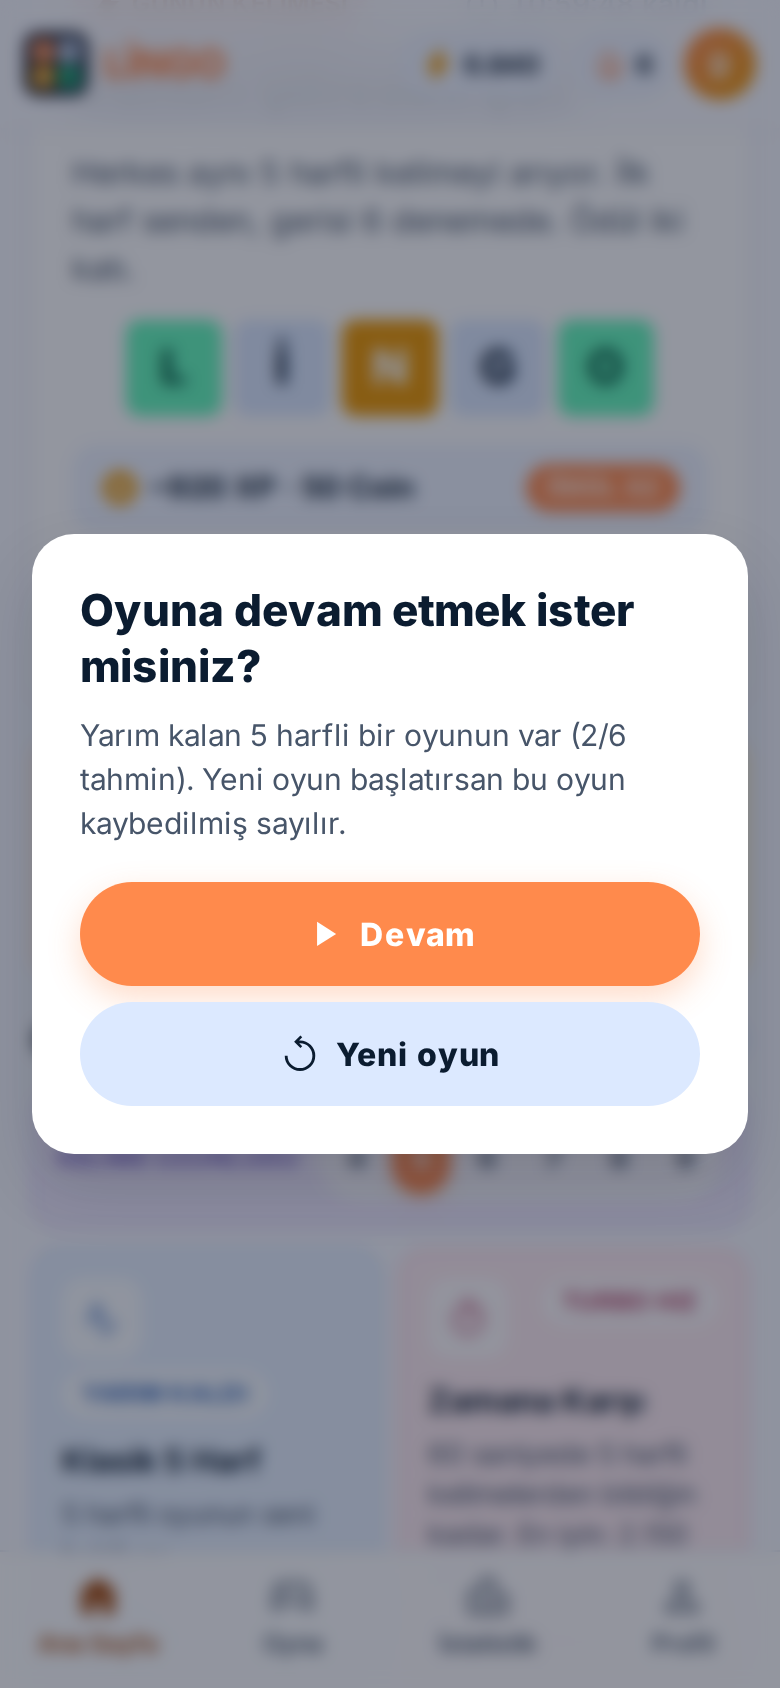
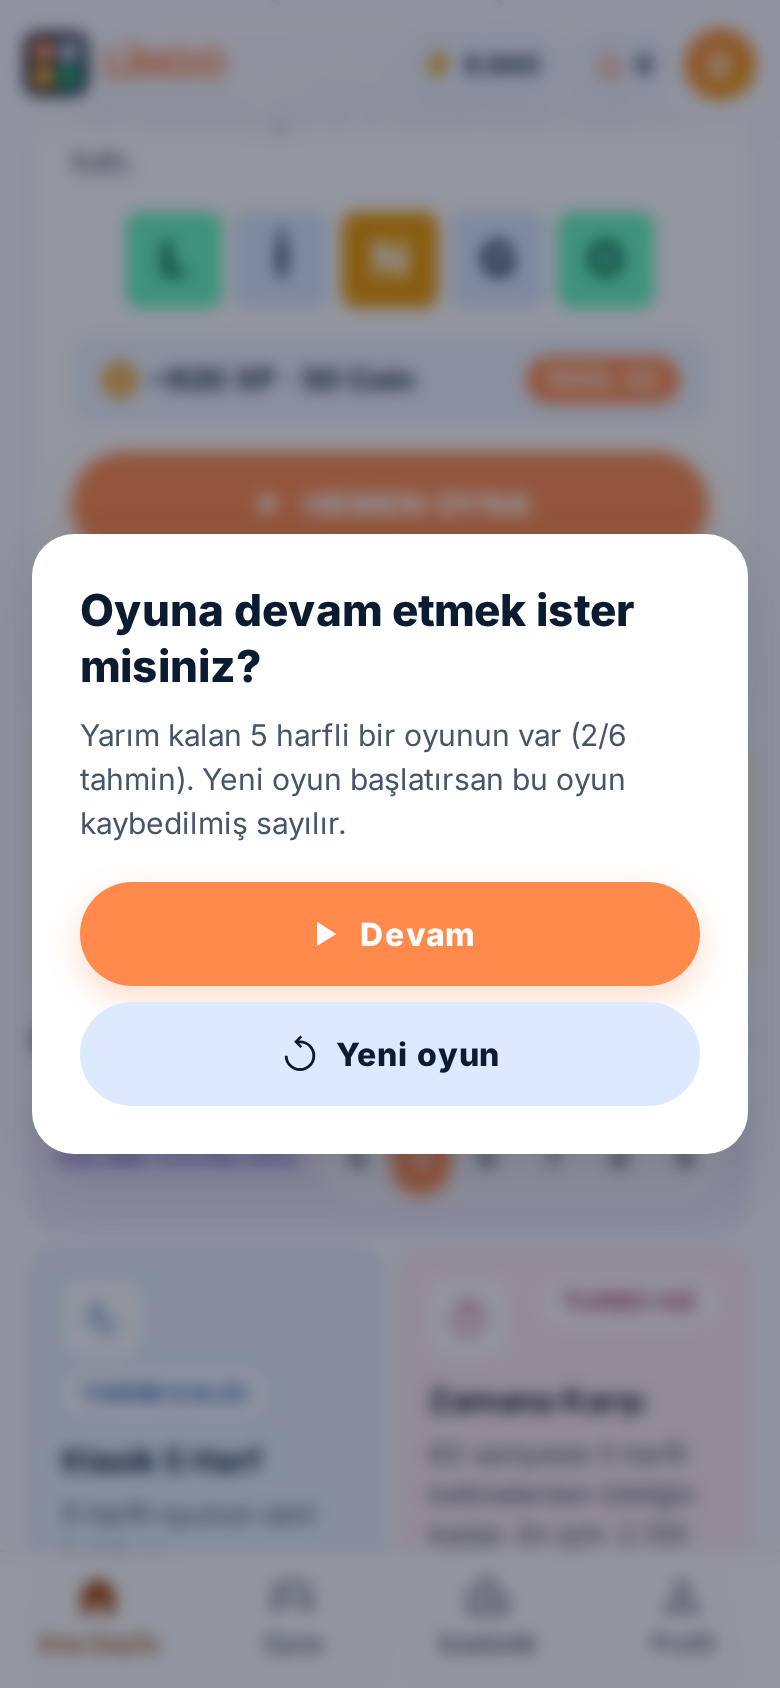
Düello PvP ve Özel Oda kartlarını kaldır
Sunucu olmadan yapılamayan iki 'Yakında' kartı ana sayfadan çıkarıldı;
kullanılmayan simgeler ve stiller silindi, README ve ekran görüntüleri
güncellendi.

Claude-Session: https://claude.ai/code/session_01DpVrEgeQ52kb5oPXwzJp8M

Changed region(s): [[0.0615, 0.0924, 0.9231, 0.3389]]

diff --git a/js/icons.js b/js/icons.js
@@ -14,7 +14,6 @@ export const ICONS = {
   home: ["M222.15-182.15h143.78v-251.92h228.14v251.92h143.78v-386.89L480-762.37 222.15-568.96v386.81Zm-68.13 68.13v-489.09L480-847.65l326.22 244.54v489.09H528.57v-254.55h-97.14v254.55H154.02ZM480-472.76Z", "M154.02-114.02v-489.01L480-847.65l326.22 244.54v489.09H561.43v-287.41H398.57v287.41H154.02Z"],
   lightbulb: ["M421.07-93.7q-24.22-24.69-24.22-60.6h166.3q0 35.91-24.22 60.6Q514.7-69 479.99-69q-34.71 0-58.92-24.7ZM316.33-217.74v-62.87h327.34v62.87H316.33Zm5-125.3Q253.89-387 213.96-453.01q-39.94-66-39.94-149.01 0-124.33 90.72-215.16Q355.47-908 479.93-908t215.37 90.82q90.92 90.83 90.92 215.16 0 82.91-39.44 148.97Q707.35-387 638.67-343.04H321.33Zm24.7-68.13h269.01q47.51-31.71 75.16-82.02 27.65-50.31 27.65-108.78 0-98.1-69.9-167.88-69.91-69.78-167.95-69.78-98.04 0-167.95 69.78-69.9 69.78-69.9 167.88 0 58.47 27.76 108.75 27.76 50.29 76.12 82.05Zm133.97 0Z", "M421.07-93.7q-24.22-24.69-24.22-60.6h166.3q0 35.91-24.22 60.6Q514.72-69 480-69t-58.93-24.7ZM316.33-217.74v-62.87h327.34v62.87H316.33Zm5-125.3Q253.89-387 213.96-453.05q-39.94-66.06-39.94-148.97 0-124.39 90.8-215.19Q355.61-908 480-908t215.3 90.79q90.92 90.8 90.92 215.19 0 82.91-39.44 148.97Q707.35-387 638.67-343.04H321.33Z"],
   local_fire_department: ["M224.78-400q0 59.18 26.11 111.45t73.28 87.59q-4-10.99-6-22.68t-2-22.97q1.2-30.8 13.32-57.61 12.12-26.8 34.4-49.08L480-467.65 596.35-353.3q22.28 22.28 34.4 49.08 12.12 26.81 13.08 57.61 0 11.28-2 22.97t-5.76 22.68q46.69-35.32 73.04-87.59 26.35-52.27 26.35-111.45 0-52.09-22.05-102.03-22.04-49.95-63.37-91.99-21 14.28-43.84 22.42-22.84 8.14-45.21 8.14-60.27 0-100.63-39.94-40.36-39.95-42.99-101.99v-20q-44.33 32.28-79.89 71.32-35.57 39.05-60.61 81.35-25.04 42.31-38.57 86.61-13.52 44.31-13.52 86.11ZM480-372.17l-68.37 67.6q-13.76 13.53-20.9 29.88-7.14 16.36-7.14 35.61 0 39.53 28.04 66.91 28.04 27.39 68.37 27.39 40.33 0 68.37-27.42 28.04-27.42 28.04-66.99 0-19.05-7.14-35.45-7.14-16.4-20.62-29.88L480-372.17Zm3.59-473.57V-708q0 32.6 22.4 54.5 22.41 21.91 54.99 21.91 17.3 0 32.09-7.14 14.78-7.14 26.3-21.66l19.67-24.39q76.21 43.41 120.38 119.74 44.17 76.32 44.17 164.97 0 135.44-94.09 229.55-94.1 94.11-229.52 94.11-135.41 0-229.49-94.09-94.08-94.09-94.08-229.5 0-129.2 87.8-249.61Q332-770.02 483.59-845.74Z", "M156.41-400q0-105.82 51.08-188.73 51.08-82.9 112.44-139.92 61.37-57.02 112.52-87.05l51.14-30.04V-708q0 35.34 23.89 55.88 23.89 20.53 53.51 20.53 16.05 0 30.96-6.72t27.42-22.08l19.67-24.39q74.23 43.17 119.39 119 45.16 75.82 45.16 165.79 0 95.58-49 172.56T625.35-110.85q23.79-26.42 36.61-59.37 12.82-32.95 12.82-68.88 0-39.16-14.36-73.46-14.35-34.31-42.02-61.94L480-509.65 342.89-374.54q-28.72 27.71-43.07 62.1-14.36 34.38-14.36 73.39 0 35.81 12.7 68.79 12.7 32.97 36.49 59.41-80.24-39.61-129.24-116.59-49-76.98-49-172.56ZM480-414.17l89.61 87.81q17.52 17.56 27.16 39.88 9.64 22.33 9.64 47.28 0 51.51-36.96 87.97-36.97 36.45-89.49 36.45-52.53 0-89.45-36.45-36.92-36.46-36.92-87.97 0-25.04 9.25-47.35 9.26-22.32 27.79-39.78L480-414.17Z"],
-  meeting_room: ["M106.13-114.02v-68.13h94.63v-664.07h404.35v45h155.13v619.07h93.87v68.13h-162v-618.83h-87v618.83H106.13Zm162.76-663.83v595.7-595.7Zm206.43 327.33q11.85-11.95 11.85-29.45 0-17.51-11.85-29.49-11.86-11.97-29.44-11.97-17.57 0-29.57 11.95-12.01 11.95-12.01 29.45 0 17.51 12.01 29.49 12 11.97 29.57 11.97 17.58 0 29.44-11.95ZM268.89-182.15h267.85v-595.7H268.89v595.7Z", "M106.13-114.02v-68.13h94.63v-664.07h404.35v45h155.13v619.07h93.87v68.13h-162v-618.83h-87v618.83H106.13Zm369.19-336.5q11.85-11.95 11.85-29.45 0-17.51-11.85-29.49-11.86-11.97-29.44-11.97-17.57 0-29.57 11.95-12.01 11.95-12.01 29.45 0 17.51 12.01 29.49 12 11.97 29.57 11.97 17.58 0 29.44-11.95Z"],
   menu_book: ["M560-567.3v-48q33-14 67.5-21t72.5-7q26 0 51 4t49 10v44q-24-9-48.5-13.5t-51.5-4.5q-38 0-73 9.5t-67 26.5Zm0 220v-49q33-13.5 67.5-20.25t72.5-6.75q26 0 51 4t49 10v44q-24-9-48.5-13.5t-51.5-4.5q-38 0-73 9t-67 27Zm0-110v-48q33-14 67.5-21t72.5-7q26 0 51 4t49 10v44q-24-9-48.5-13.5t-51.5-4.5q-38 0-73 9.5t-67 26.5Zm-312 164q53.57 0 104.28 12.5Q403-268.3 452-243.3v-427q-45-30-97.62-46.5-52.62-16.5-106.38-16.5-38 0-74.5 9.5T100-700.3v434q31-14 70.5-20.5t77.5-6.5Zm264 50q50-25 98-37.5t102-12.5q38 0 78.5 6t69.5 16v-429q-34-17.24-71.82-25.12-37.82-7.88-76.18-7.88-54 0-104.5 16.5T512-670.3v427Zm-29.48 96.45q-51.28-37.76-111.2-58.98-59.93-21.21-123.32-21.21-35.96 0-70.65 9.12-34.68 9.12-69.2 21.64-25.49 12.43-49.57-2.8-24.08-15.24-24.08-44.27v-462.76q0-17.39 7.96-31.99 7.95-14.61 23.87-22.66 42.47-19.88 88.11-29.08 45.63-9.2 93.07-9.2 63.25 0 122.87 17.12Q430-764.8 482-729.33q51-35.24 109.62-52.47 58.62-17.24 120.87-17.24 47.1 0 92.4 9.38 45.31 9.38 87.78 28.9 15.92 8.05 24.37 22.66 8.46 14.6 8.46 31.99v465.39q0 30.06-25.01 44.97-25.01 14.9-49.64-.53-33.52-13.52-68.2-22.14-34.68-8.62-70.65-8.62-63.05 0-120.74 21.83-57.7 21.84-108.74 58.36ZM276-482.3Z", "M560-567.3v-48q33-14 67.5-21t72.5-7q26 0 51 4t49 10v44q-24-9-48.5-13.5t-51.5-4.5q-38 0-73 9.5t-67 26.5Zm0 220v-49q33-13.5 67.5-20.25t72.5-6.75q26 0 51 4t49 10v44q-24-9-48.5-13.5t-51.5-4.5q-38 0-73 9t-67 27Zm0-110v-48q33-14 67.5-21t72.5-7q26 0 51 4t49 10v44q-24-9-48.5-13.5t-51.5-4.5q-38 0-73 9.5t-67 26.5Zm-48 214q50-25 98-37.5t102-12.5q38 0 78.5 6t69.5 16v-429q-34-17.24-71.82-25.12-37.82-7.88-76.18-7.88-54 0-104.5 16.5T512-670.3v427Zm-29.48 96.45q-51.28-37.76-111.2-58.98-59.93-21.21-123.32-21.21-35.96 0-70.65 9.12-34.68 9.12-69.2 21.64-25.49 12.43-49.57-2.8-24.08-15.24-24.08-44.27v-462.76q0-17.39 7.96-32.09 7.95-14.7 23.87-22.56 42.47-19.76 88.2-29.02 45.73-9.26 92.97-9.26 63.26 0 122.88 17.12T482-729.33q51-35.24 109.62-52.47 58.62-17.24 120.88-17.24 47.42 0 92.56 9.26t87.61 29.02q15.92 7.86 24.37 22.56 8.46 14.7 8.46 32.09v465.39q0 30.06-25.01 44.97-25.01 14.9-49.64-.53-33.52-13.52-68.2-22.14-34.68-8.62-70.65-8.62-63.05 0-120.74 21.83-57.7 21.84-108.74 58.36Z"],
   military_tech: ["M275.93-891h408.14v337.07q0 24.19-11.82 44.26-11.82 20.06-33.1 32.32l-140.04 81.66 26 96.62h143.8l-116.86 86.82L596.61-69l-116.63-86.69L362.35-69l44.63-143.33-116.89-86.74H435l24.89-96.62-139.04-81.66q-21.28-12.26-33.1-32.32-11.82-20.07-11.82-44.26V-891Zm65.5 65.5v271.2q0 7 4.5 13t13.5 11L454-478.37V-825.5H341.43Zm277.14 0H514v347.13l86.57-51.93q9-5 13.5-11t4.5-13v-271.2ZM484-643.93Zm-30-8Zm60 0Z", "M275.93-891h408.14v337.07q0 24.19-12.03 44.14t-32.89 32.44L499.11-395.6l26 96.53h143.8l-116.86 86.82L596.61-69l-116.63-86.69L362.35-69l44.63-143.33-116.89-86.74h144.8l25-96.53-139.04-81.75q-20.86-12.49-32.89-32.44-12.03-19.95-12.03-44.14V-891ZM454-825.5v347.13l30 16 30-16V-825.5h-60Z"],
   paid: ["M449.57-193h57.86v-51.04q60.53-6.76 94.77-37.26 34.23-30.5 34.23-82.7 0-51.24-29.2-83.84-29.21-32.59-98.83-61.59-57.68-24-83.32-43-25.65-19-25.65-50.53 0-29.8 21.91-47.2 21.9-17.41 59.7-17.41 29.76 0 51.88 14t37.12 42.48l50.63-23.95q-17.51-36.72-45.25-56.7-27.75-19.98-65.99-24.47V-766h-57.86v49.8q-51.72 7.48-80.86 38.36-29.14 30.87-29.14 75.75 0 49.81 30.71 79.41 30.72 29.59 92.87 55.07 64.61 27.04 89.01 49.2 24.41 22.15 24.41 54.41 0 31.52-25.67 50.54-25.66 19.03-66.02 19.03-38.88 0-69.02-22-30.14-22-41.9-60.48l-53.63 17.95q20.76 47.2 51.97 74.3 31.22 27.09 75.27 38.7V-193Zm30.46 118.98q-83.46 0-157.54-31.86t-129.41-87.2q-55.34-55.33-87.2-129.38-31.86-74.04-31.86-157.51 0-84.46 31.86-158.54t87.16-128.93q55.3-54.85 129.36-86.81 74.06-31.97 157.55-31.97 84.48 0 158.59 31.95 74.1 31.95 128.94 86.76 54.83 54.82 86.78 128.91 31.96 74.08 31.96 158.6 0 83.5-31.97 157.57-31.96 74.08-86.81 129.38-54.85 55.31-128.9 87.17-74.04 31.86-158.51 31.86Zm-.03-68.13q141.04 0 239.45-98.75 98.4-98.76 98.4-239.1 0-141.04-98.4-239.45-98.41-98.4-239.57-98.4-140.16 0-238.95 98.4-98.78 98.41-98.78 239.57 0 140.16 98.75 238.95 98.76 98.78 239.1 98.78ZM480-480Z", "M449.57-193h57.86v-51.04q60.53-6.76 94.77-37.26 34.23-30.5 34.23-82.7 0-51.24-29.2-83.84-29.21-32.59-98.83-61.59-57.68-24-83.32-43-25.65-19-25.65-50.53 0-29.8 21.91-47.2 21.9-17.41 59.7-17.41 29.76 0 51.88 14t37.12 42.48l50.63-23.95q-17.51-36.72-45.25-56.7-27.75-19.98-65.99-24.47V-766h-57.86v49.8q-51.72 7.48-80.86 38.36-29.14 30.87-29.14 75.75 0 49.81 30.71 79.41 30.72 29.59 92.87 55.07 64.61 27.04 89.01 49.2 24.41 22.15 24.41 54.41 0 31.52-25.67 50.54-25.66 19.03-66.02 19.03-38.88 0-69.02-22-30.14-22-41.9-60.48l-53.63 17.95q20.76 47.2 51.97 74.3 31.22 27.09 75.27 38.7V-193Zm30.46 118.98q-83.46 0-157.54-31.86t-129.41-87.2q-55.34-55.33-87.2-129.38-31.86-74.04-31.86-157.51 0-84.46 31.86-158.54t87.16-128.93q55.3-54.85 129.36-86.81 74.06-31.97 157.55-31.97 84.48 0 158.59 31.95 74.1 31.95 128.94 86.76 54.83 54.82 86.78 128.91 31.96 74.08 31.96 158.6 0 83.5-31.97 157.57-31.96 74.08-86.81 129.38-54.85 55.31-128.9 87.17-74.04 31.86-158.51 31.86Z"],
@@ -24,7 +23,6 @@ export const ICONS = {
   speed: ["M473.42-303.5Q516.76-305 537-336l220.78-343.78L418-456q-30 20.24-32 64.07-2 43.84 21.04 66.88 23.05 23.05 66.38 21.55Zm4.59-501.72q58.17 0 121.97 19.1t121.04 64.34l-59.41 42.74q-45-29.76-95.43-43.79-50.42-14.02-88.3-14.02-139.18 0-237.45 99.56-98.28 99.57-98.28 241.19 0 45.1 12.26 90.14 12.26 45.05 35.02 83.81h576.1q22.04-36 34.68-82.93Q812.85-352 812.85-398q0-41.04-12.02-88.95-12.03-47.9-43.79-88.9l44.74-59.17q38.96 56.72 58.2 114.89 19.24 58.17 21.24 116.13 1.76 60.46-12.37 114.38-14.12 53.93-41.59 99.73-13.19 24.43-27.87 30.15-14.67 5.72-36.39 5.72H192q-18.67 0-36.61-9.34-17.93-9.34-26.65-26.53-26.24-48.24-40.48-98.79-14.24-50.54-14.24-107.34 0-84.18 31.88-158.61t86.74-129.93q54.86-55.5 128.69-88.08t156.68-32.58Zm-5.66 333.87Z", "M418-340q25 25 62.88 23.5T536-344l225.78-337.78L424-456q-26 18.24-28.38 54.74-2.38 36.5 22.38 61.26ZM192-154.02q-19.43 0-36.99-9.22-17.55-9.22-26.27-26.65-26.48-48.72-40.6-101.44Q74.02-344.04 74.02-399q0-84.2 31.86-158.27 31.86-74.08 86.7-129.41 54.83-55.34 128.41-87.44 73.58-32.1 157.01-32.1 84.43 0 159.01 31.98 74.58 31.98 130.03 87.32 55.46 55.33 87.44 129.41 31.98 74.08 31.74 158.51 0 54.96-13.24 108.17-13.24 53.22-40.48 100.94-10.2 17.19-27.39 26.53-17.2 9.34-36.87 9.34H192Z"],
   spellcheck: ["M563-74.26 401.37-235.89l46.78-47.02L563-168.07l237.85-237.84 46.78 47.02L563-74.26ZM116.41-312l200.96-527h71.98l200.72 527h-72.98l-53.76-141.04H238.48L184.96-312h-68.55Zm141.55-201.2h186.13l-90.57-250.17h-5L257.96-513.2Z", "M563-74.26 401.37-235.89l46.78-47.02L563-168.07l237.85-237.84 46.78 47.02L563-74.26ZM116.41-312l200.96-527h71.98l200.72 527h-72.98l-53.76-141.04H238.48L184.96-312h-68.55Zm141.55-201.2h186.13l-90.57-250.17h-5L257.96-513.2Z"],
   stars: ["m320-240 160-122 160 122-64-197 160-113H541l-61-203-62 203H223l160 113-63 197ZM480.03-74.02q-83.46 0-157.54-31.88-74.07-31.88-129.39-87.2-55.32-55.32-87.2-129.36-31.88-74.04-31.88-157.51 0-84.46 31.88-158.54 31.88-74.07 87.16-128.9 55.28-54.84 129.34-86.82 74.06-31.99 157.55-31.99 84.48 0 158.59 31.97 74.1 31.97 128.91 86.77 54.82 54.8 86.79 128.88 31.98 74.08 31.98 158.6 0 83.5-31.99 157.57-31.98 74.07-86.82 129.36-54.83 55.29-128.87 87.17-74.04 31.88-158.51 31.88Zm-.03-68.13q141.04 0 239.45-98.75 98.4-98.76 98.4-239.1 0-141.04-98.4-239.45-98.41-98.4-239.57-98.4-140.16 0-238.95 98.4-98.78 98.41-98.78 239.57 0 140.16 98.75 238.95 98.76 98.78 239.1 98.78ZM480-480Z", "m320-240 160-122 160 122-64-197 160-113H541l-61-203-62 203H223l160 113-63 197ZM480.03-74.02q-83.46 0-157.54-31.88-74.07-31.88-129.39-87.2-55.32-55.32-87.2-129.36-31.88-74.04-31.88-157.51 0-84.46 31.88-158.54 31.88-74.07 87.16-128.9 55.28-54.84 129.34-86.82 74.06-31.99 157.55-31.99 84.48 0 158.59 31.97 74.1 31.97 128.91 86.77 54.82 54.8 86.79 128.88 31.98 74.08 31.98 158.6 0 83.5-31.99 157.57-31.98 74.07-86.82 129.36-54.83 55.29-128.87 87.17-74.04 31.88-158.51 31.88Z"],
-  swords: ["M766.61-85.61 645.72-206.74l-88 88-41.81-41.8q-19.39-19.63-19.39-47.74 0-28.11 19.39-47.74l192.07-192.07q19.63-19.39 47.74-19.39 28.11 0 47.74 19.39l41.8 41.81-88 88 120.13 120.89q10.2 10.19 10.2 24.11 0 13.91-10.2 24.11l-62.56 63.56q-10.2 10.2-24.11 10.2-13.92 0-24.11-10.2Zm117.46-636.72L430.35-268.61l18.28 19.28q15.57 19.16 14.37 44.99-1.2 25.84-19.15 43.8l-41.81 41.8-88-88L193.15-85.61q-10.19 10.2-23.99 10.2-13.79 0-23.99-10.2l-63.56-63.56q-10.44-10.2-10.44-24.11 0-13.92 10.44-24.11l121.13-120.89-88-88 41.56-41.81q18.2-17.95 44.04-19.15 25.83-1.19 44.99 14.61l19.28 18.28 453.72-453.72h165.74v165.74ZM321.2-569.91l36.32-36.57 36.33-36.09-36.33 36.09-36.32 36.57Zm-46.79 46.3L75.93-722.33v-165.74h165.98l198.72 198.72-46.78 46.78-179.81-179.04h-71.65v71.41L321.2-569.91l-46.79 46.3Zm108.35 206.5L817.61-750.2v-71.41H746.2L311.11-388.76l71.65 71.65Zm0 0-35.09-36.56-36.56-35.09 36.56 35.09 35.09 36.56Z", "M766.61-85.61 645.72-206.74l-88 88-41.81-41.8q-19.39-19.63-19.39-47.74 0-28.11 19.39-47.74l192.07-192.07q19.63-19.39 47.74-19.39 28.11 0 47.74 19.39l41.8 41.81-88 88 120.13 120.89q10.2 10.19 10.2 24.11 0 13.91-10.2 24.11l-62.56 63.56q-10.2 10.2-24.11 10.2-13.92 0-24.11-10.2Zm117.46-636.72L430.35-268.61l18.28 19.28q15.57 19.16 14.37 44.99-1.2 25.84-19.15 43.8l-41.81 41.8-88-88L193.15-85.61q-10.19 10.2-23.99 10.2-13.79 0-23.99-10.2l-63.56-63.56q-10.44-10.2-10.44-24.11 0-13.92 10.44-24.11l121.13-120.89-88-88 41.56-41.81q18.2-17.95 44.04-19.15 25.83-1.19 44.99 14.61l19.28 18.28 453.72-453.72h165.74v165.74ZM274.41-523.61 75.93-722.33v-165.74h165.98l198.72 198.72-166.22 165.74Z"],
   task_alt: ["M480.12-74.02q-86.32 0-160.51-31t-128.89-85.7q-54.7-54.7-85.7-128.89-31-74.19-31-160.51 0-85.31 30.94-159.4t85.7-128.9q54.76-54.8 128.95-86.3T480-886.22q75 0 140 23.65t117.48 65.4l-49.46 49.21q-42.8-33.32-95.27-51.61-52.46-18.28-112.75-18.28-144.11 0-240.98 96.74-96.87 96.74-96.87 241.07 0 144.32 96.86 241.11 96.86 96.78 240.95 96.78 144.08 0 240.99-96.76 96.9-96.75 96.9-241.09 0-28.88-4.38-56.27-4.38-27.38-12.9-53.19l52.93-53.17q16.24 37.72 24.48 78.28 8.24 40.57 8.24 84.17 0 86.38-31.5 160.57t-86.3 128.95q-54.81 54.76-128.9 85.7-74.09 30.94-159.4 30.94Zm-59.6-220.39L252.89-463.04l49.78-50.03 117.85 117.85L836.2-810.89l51.02 50.02-466.7 466.46Z", "M480.12-74.02q-84.79 0-158.87-31.76-74.07-31.76-128.89-86.58-54.82-54.82-86.58-128.89-31.76-74.08-31.76-158.87 0-84.55 31.7-158.64 31.71-74.09 86.58-128.9 54.88-54.8 128.95-86.68 74.08-31.88 158.75-31.88 65.15 0 123.21 18.73 58.05 18.72 107.01 52.14l-63.87 64.11q-36.48-21.96-78.34-34.43-41.85-12.48-88.01-12.48-132.74 0-225.44 92.58-92.71 92.57-92.71 225.53 0 132.71 92.69 225.45 92.7 92.74 225.42 92.74 132.71 0 225.45-92.71 92.74-92.71 92.74-225.44 0-18.04-1.86-34.81-1.86-16.77-5.57-32.97l71.11-70.87q11.95 32.43 18.17 66.93 6.22 34.5 6.22 71.54 0 84.85-31.88 158.93-31.88 74.07-86.68 128.95-54.81 54.87-128.9 86.58-74.09 31.7-158.64 31.7ZM423.8-293.65 251.13-467.33l61.39-61.39 112.05 112.05L824.59-816.7l61.63 60.63L423.8-293.65Z"],
   timer: ["M354.5-860v-65.5h251v65.5h-251Zm92.87 452.02h65.26v-230.48h-65.26v230.48ZM337.89-98.97q-66.56-28.96-116.35-78.69-49.8-49.73-78.66-116.27-28.86-66.54-28.86-142.01 0-75.47 28.86-142.05 28.86-66.58 78.66-116.42 49.81-49.85 116.38-78.82Q404.5-802.2 480-802.2q67.48 0 127.08 22.5 59.59 22.5 105.83 62.74l53.16-53.15 46.3 46.07-53.15 53.15q36.24 40.48 61.62 97.96 25.38 57.47 25.38 136.95 0 75.52-28.96 142.11-28.95 66.59-78.78 116.28-49.83 49.7-116.44 78.64Q555.43-70 479.94-70T337.89-98.97Zm353.18-126.02q86.78-86.62 86.78-210.95 0-124.32-86.74-211.1-86.75-86.79-211.07-86.79t-211.11 86.75q-86.78 86.74-86.78 211.06 0 124.32 86.74 210.99 86.75 86.66 211.07 86.66t211.11-86.62ZM480-434.98Z", "M354.5-860v-65.5h251v65.5h-251Zm92.87 452.02h65.26v-230.48h-65.26v230.48ZM337.89-98.97q-66.56-28.96-116.35-78.69-49.8-49.73-78.66-116.27-28.86-66.54-28.86-142.01 0-75.47 28.86-142.05 28.86-66.58 78.66-116.42 49.81-49.85 116.38-78.82Q404.5-802.2 480-802.2q67.48 0 126.58 22 59.09 22 105.33 62.24l53.16-53.15 47.3 47.07-53.15 53.15q36.24 40.48 61.62 97.96 25.38 57.47 25.38 136.95 0 75.52-28.96 142.11-28.95 66.59-78.78 116.28-49.83 49.7-116.44 78.64Q555.43-70 479.94-70T337.89-98.97Z"],
   track_changes: ["M319.82-101.31q-75.02-32.32-130.61-87.9-55.58-55.59-87.9-130.67Q69-394.96 69-480.06q0-85.09 32.31-160.12 32.32-75.02 87.9-130.61 55.59-55.58 130.65-87.9Q394.92-891 480-891h32.63v332.22q23.2 9.71 38.03 30.91 14.84 21.2 14.84 47.8 0 35.3-25.14 60.43-25.14 25.14-60.45 25.14-35.3 0-60.36-25.14-25.05-25.13-25.05-60.43 0-26.6 14.84-47.8 14.83-21.2 38.03-30.91v-101.13q-65.24 11.48-107.62 61.45-42.38 49.98-42.38 118.35 0 76.35 53.19 129.55 53.18 53.19 129.41 53.19 76.23 0 129.44-53.17 53.22-53.18 53.22-129.32 0-41.62-16.12-76.22-16.12-34.59-44.6-59.83l46.83-46.83q36.35 34.12 57.99 81.14 21.64 47.03 21.64 101.6 0 103.63-72.36 175.88-72.37 72.25-175.98 72.25-103.62 0-175.89-72.25-72.27-72.25-72.27-175.87 0-95.81 61.55-165.38 61.56-69.56 153.95-81.52v-97.13q-132.44 11.95-222.65 110.15-90.22 98.19-90.22 233.81 0 144.21 100.73 244.89Q335.97-134.5 480.06-134.5q144.09 0 244.77-100.7Q825.5-335.9 825.5-479.92q0-75.04-28.96-139.08-28.95-64.04-79.47-112.07l46.58-46.58q58.71 56.41 93.03 132.93Q891-568.21 891-479.89q0 85.04-32.31 160.07-32.32 75.02-87.9 130.61-55.59 55.58-130.67 87.9Q565.04-69 479.94-69q-85.09 0-160.12-32.31Z", "M319.82-101.31q-75.02-32.32-130.61-87.9-55.58-55.59-87.9-130.67Q69-394.96 69-480.06q0-85.09 32.31-160.12 32.32-75.02 87.9-130.61 55.59-55.58 130.65-87.9Q394.92-891 480-891h32.63v332.22q23.2 9.71 38.03 30.91 14.84 21.2 14.84 47.8 0 35.3-25.14 60.43-25.14 25.14-60.45 25.14-35.3 0-60.36-25.14-25.05-25.13-25.05-60.43 0-26.6 14.84-47.8 14.83-21.2 38.03-30.91v-101.13q-65.24 11.48-107.62 61.45-42.38 49.98-42.38 118.35 0 76.35 53.19 129.55 53.18 53.19 129.41 53.19 76.23 0 129.44-53.17 53.22-53.18 53.22-129.32 0-41.62-16.12-76.22-16.12-34.59-44.6-59.83l46.83-46.83q36.35 34.12 57.99 81.14 21.64 47.03 21.64 101.6 0 103.63-72.36 175.88-72.37 72.25-175.98 72.25-103.62 0-175.89-72.25-72.27-72.25-72.27-175.87 0-95.81 61.55-165.38 61.56-69.56 153.95-81.52v-97.13q-132.44 11.95-222.65 110.15-90.22 98.19-90.22 233.81 0 144.21 100.73 244.89Q335.97-134.5 480.06-134.5q144.09 0 244.77-100.7Q825.5-335.9 825.5-479.92q0-75.04-28.96-139.08-28.95-64.04-79.47-112.07l46.58-46.58q58.71 56.41 93.03 132.93Q891-568.21 891-479.89q0 85.04-32.31 160.07-32.32 75.02-87.9 130.61-55.59 55.58-130.67 87.9Q565.04-69 479.94-69q-85.09 0-160.12-32.31Z"],

diff --git a/js/app.js b/js/app.js
@@ -385,16 +385,6 @@ function renderHome() {
           <p>${TIME_ATTACK_SECONDS} saniyede ${n} harfli kelimelerden bildiğin kadar. En iyin: ${fmt(p.timeAttackBest)} puan.</p>
           <span class="mode-cta rose-ink">Hemen Başla ${icon('arrow_forward')}</span>
         </button>
-        <button class="mode tint tint-muted" disabled aria-disabled="true">
-          <div class="mode-top"><span class="mode-icon dot">${icon('swords')}</span><span class="badge tint-chip">Yakında</span></div>
-          <h3>Düello PvP</h3>
-          <p>Canlı 1'e 1 eşleşme. Sunucu tarafı henüz yok.</p>
-        </button>
-        <button class="mode tint tint-muted" disabled aria-disabled="true">
-          <div class="mode-top"><span class="mode-icon dot">${icon('meeting_room')}</span><span class="badge tint-chip">Yakında</span></div>
-          <h3>Özel Oda</h3>
-          <p>Oda kodu ile arkadaşlarınla oyna.</p>
-        </button>
       </div>
     </section>
 

diff --git a/css/styles.css b/css/styles.css
@@ -623,8 +623,6 @@ button:focus-visible, a:focus-visible, input:focus-visible {
 :root[data-theme='dark'] .sky-ink { color: #8fb6f2; }
 :root[data-theme='dark'] .rose-ink { color: #f19ab7; }
 .badge.tint-chip { background: var(--tint-dot); }
-.tint-muted { --tint-bg: var(--surface-low); --tint-bd: var(--outline); }
-.mode.tint-muted { filter: grayscale(1); opacity: 0.65; }
 
 /* Sonuç ekranı: altta sabit eylem çubuğu */
 .page.has-actions { padding-bottom: calc(100px + env(safe-area-inset-bottom, 0px)); }

diff --git a/README.md b/README.md
@@ -33,8 +33,6 @@ Takıldığında ampul simgesine basıp bir harf açtırabilirsin. İpucu 4. tah
 
 **Arşiv.** Kaçırdığın son 60 günün kelimelerini ana sayfadaki "Geçmiş günlerin kelimeleri" bağlantısından oynayabilirsin. Arşiv oyunları ödül kazandırır ama seriyi uzatmaz; yoksa kaçırılan günler sonradan kapatılabilirdi.
 
-Düello ve Özel Oda modları henüz yok, ana sayfada "Yakında" olarak duruyor.
-
 ## Seri, rozetler ve ayarlar
 
 **Seri koruyucu.** Günün kelimesini bildiğin her gün serin bir artar. Bir günü kaçırırsan seri sıfırlanır, ama elinde seri koruyucu varsa o gün kendiliğinden kapatılır. Koruyucuyu Profil sayfasındaki mağazadan 200 coin'e alırsın, en fazla 2 tane taşıyabilirsin.
